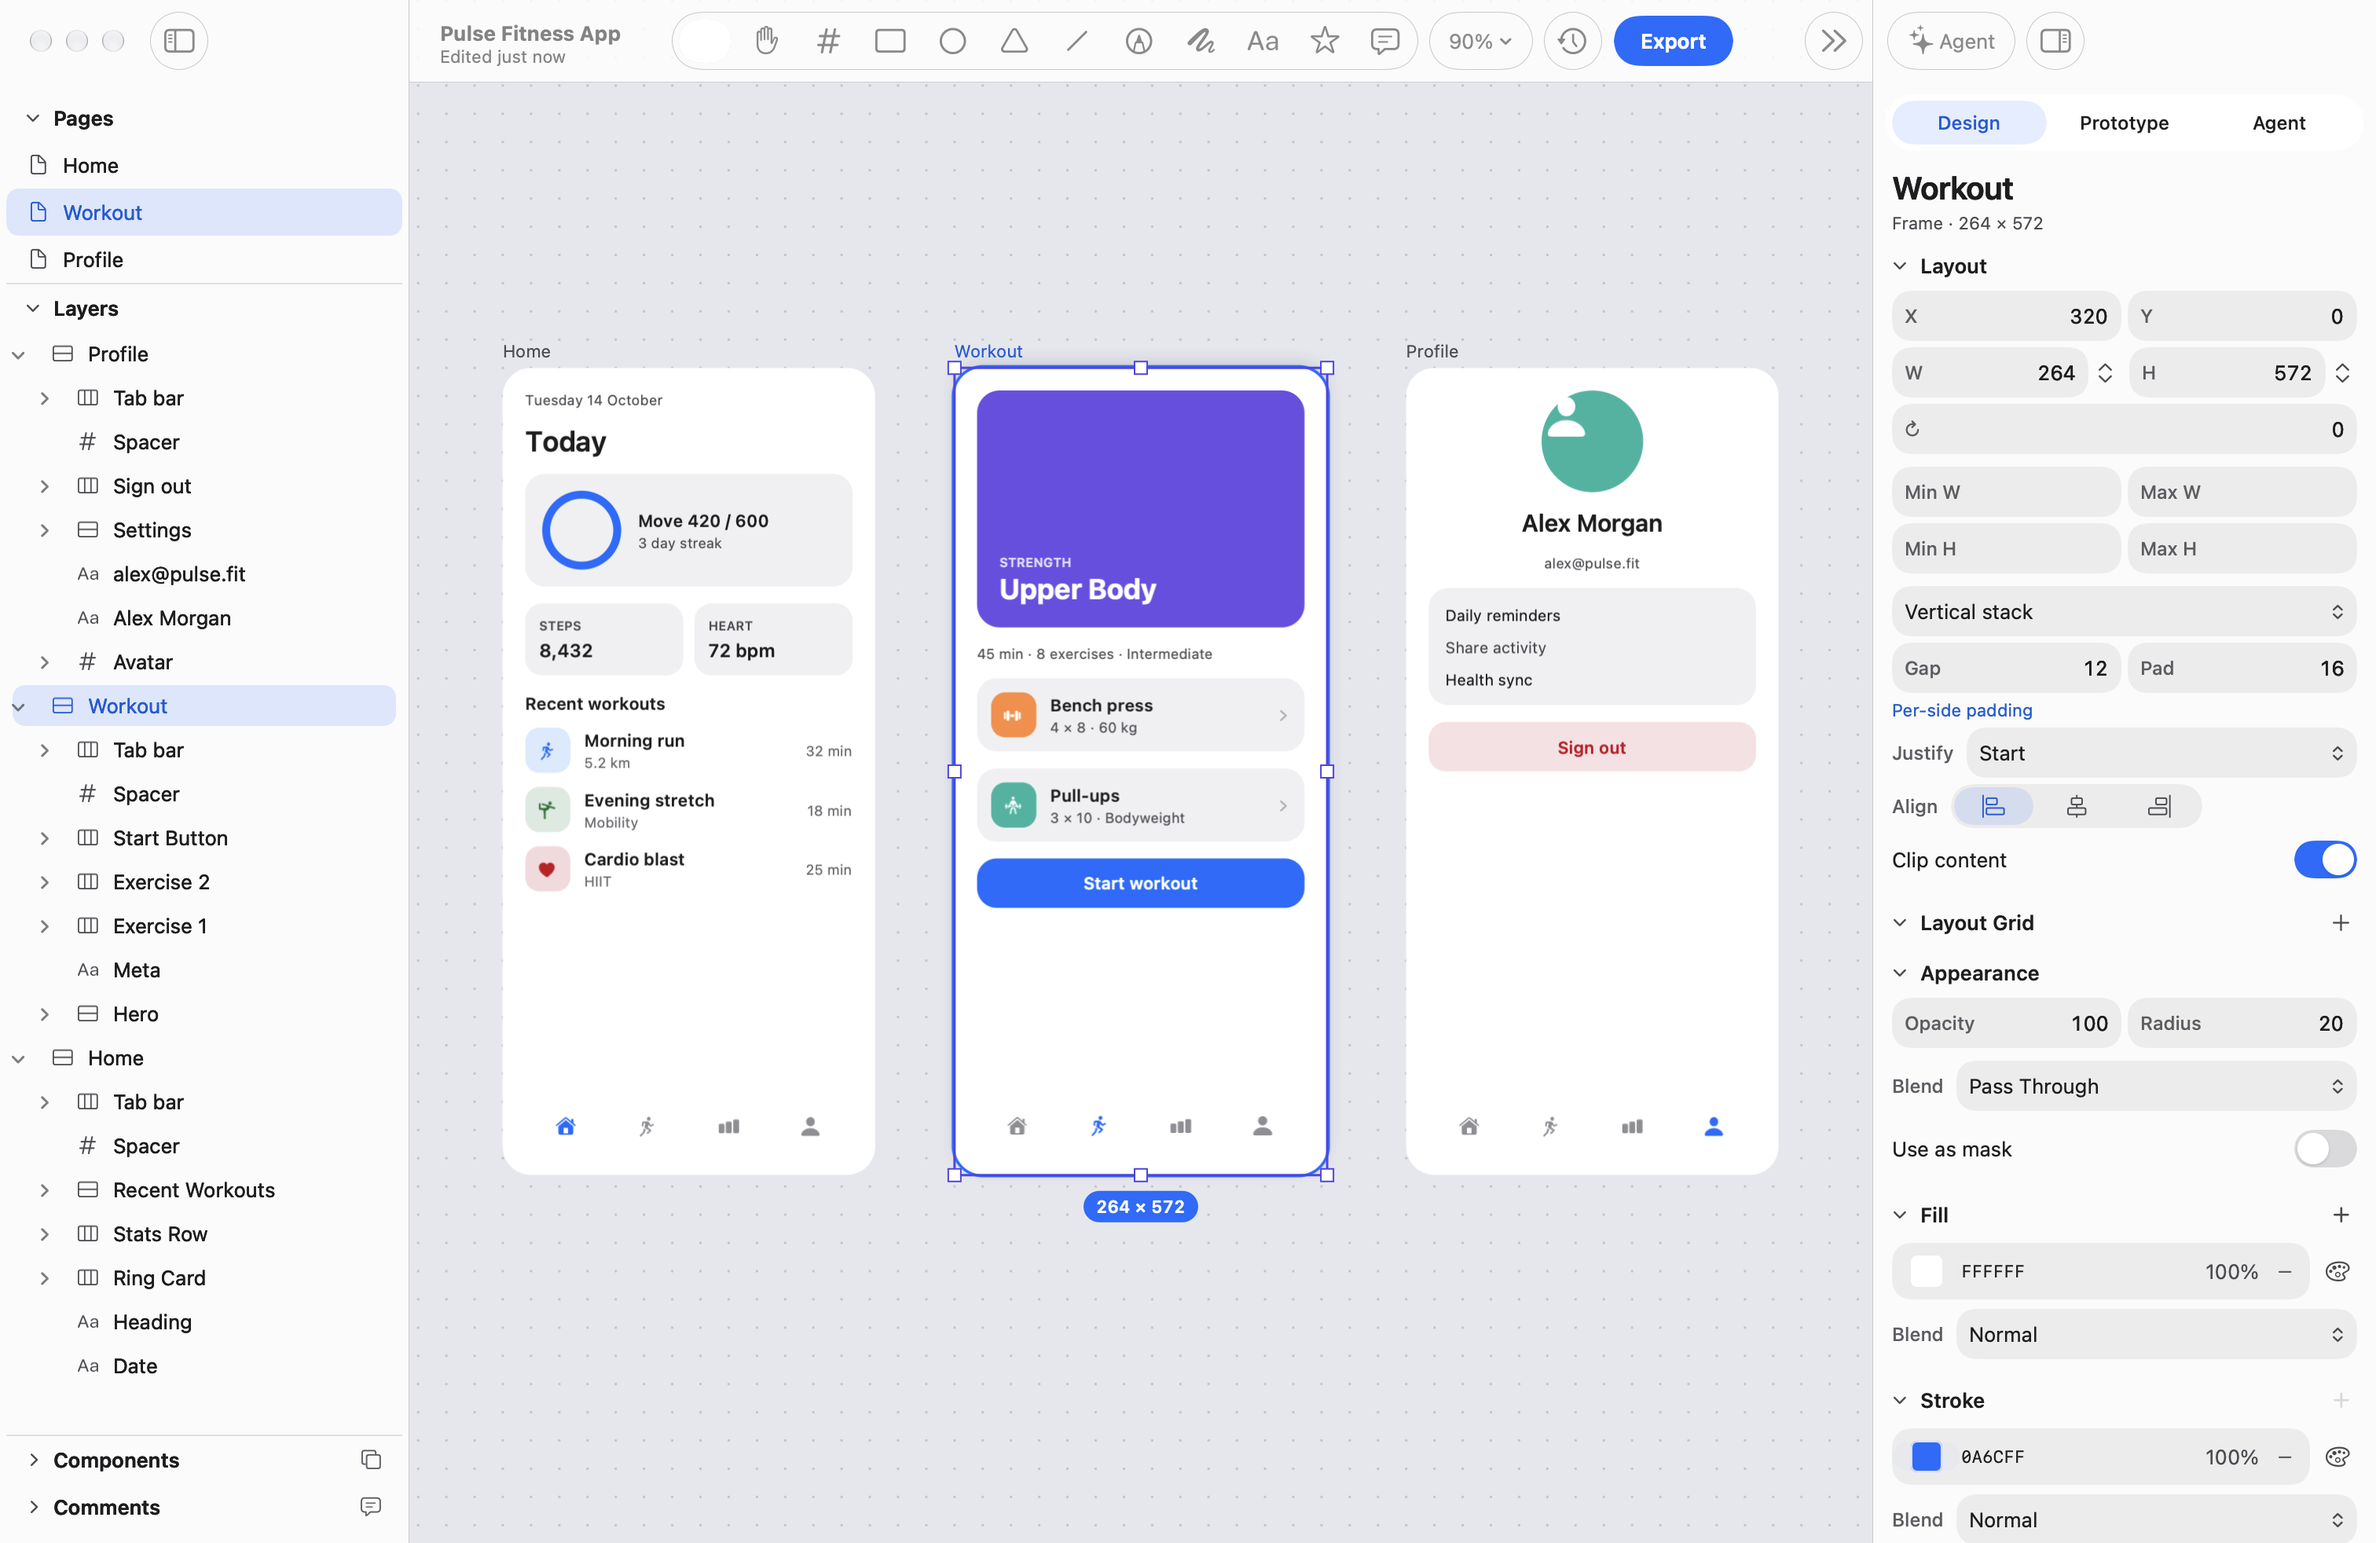
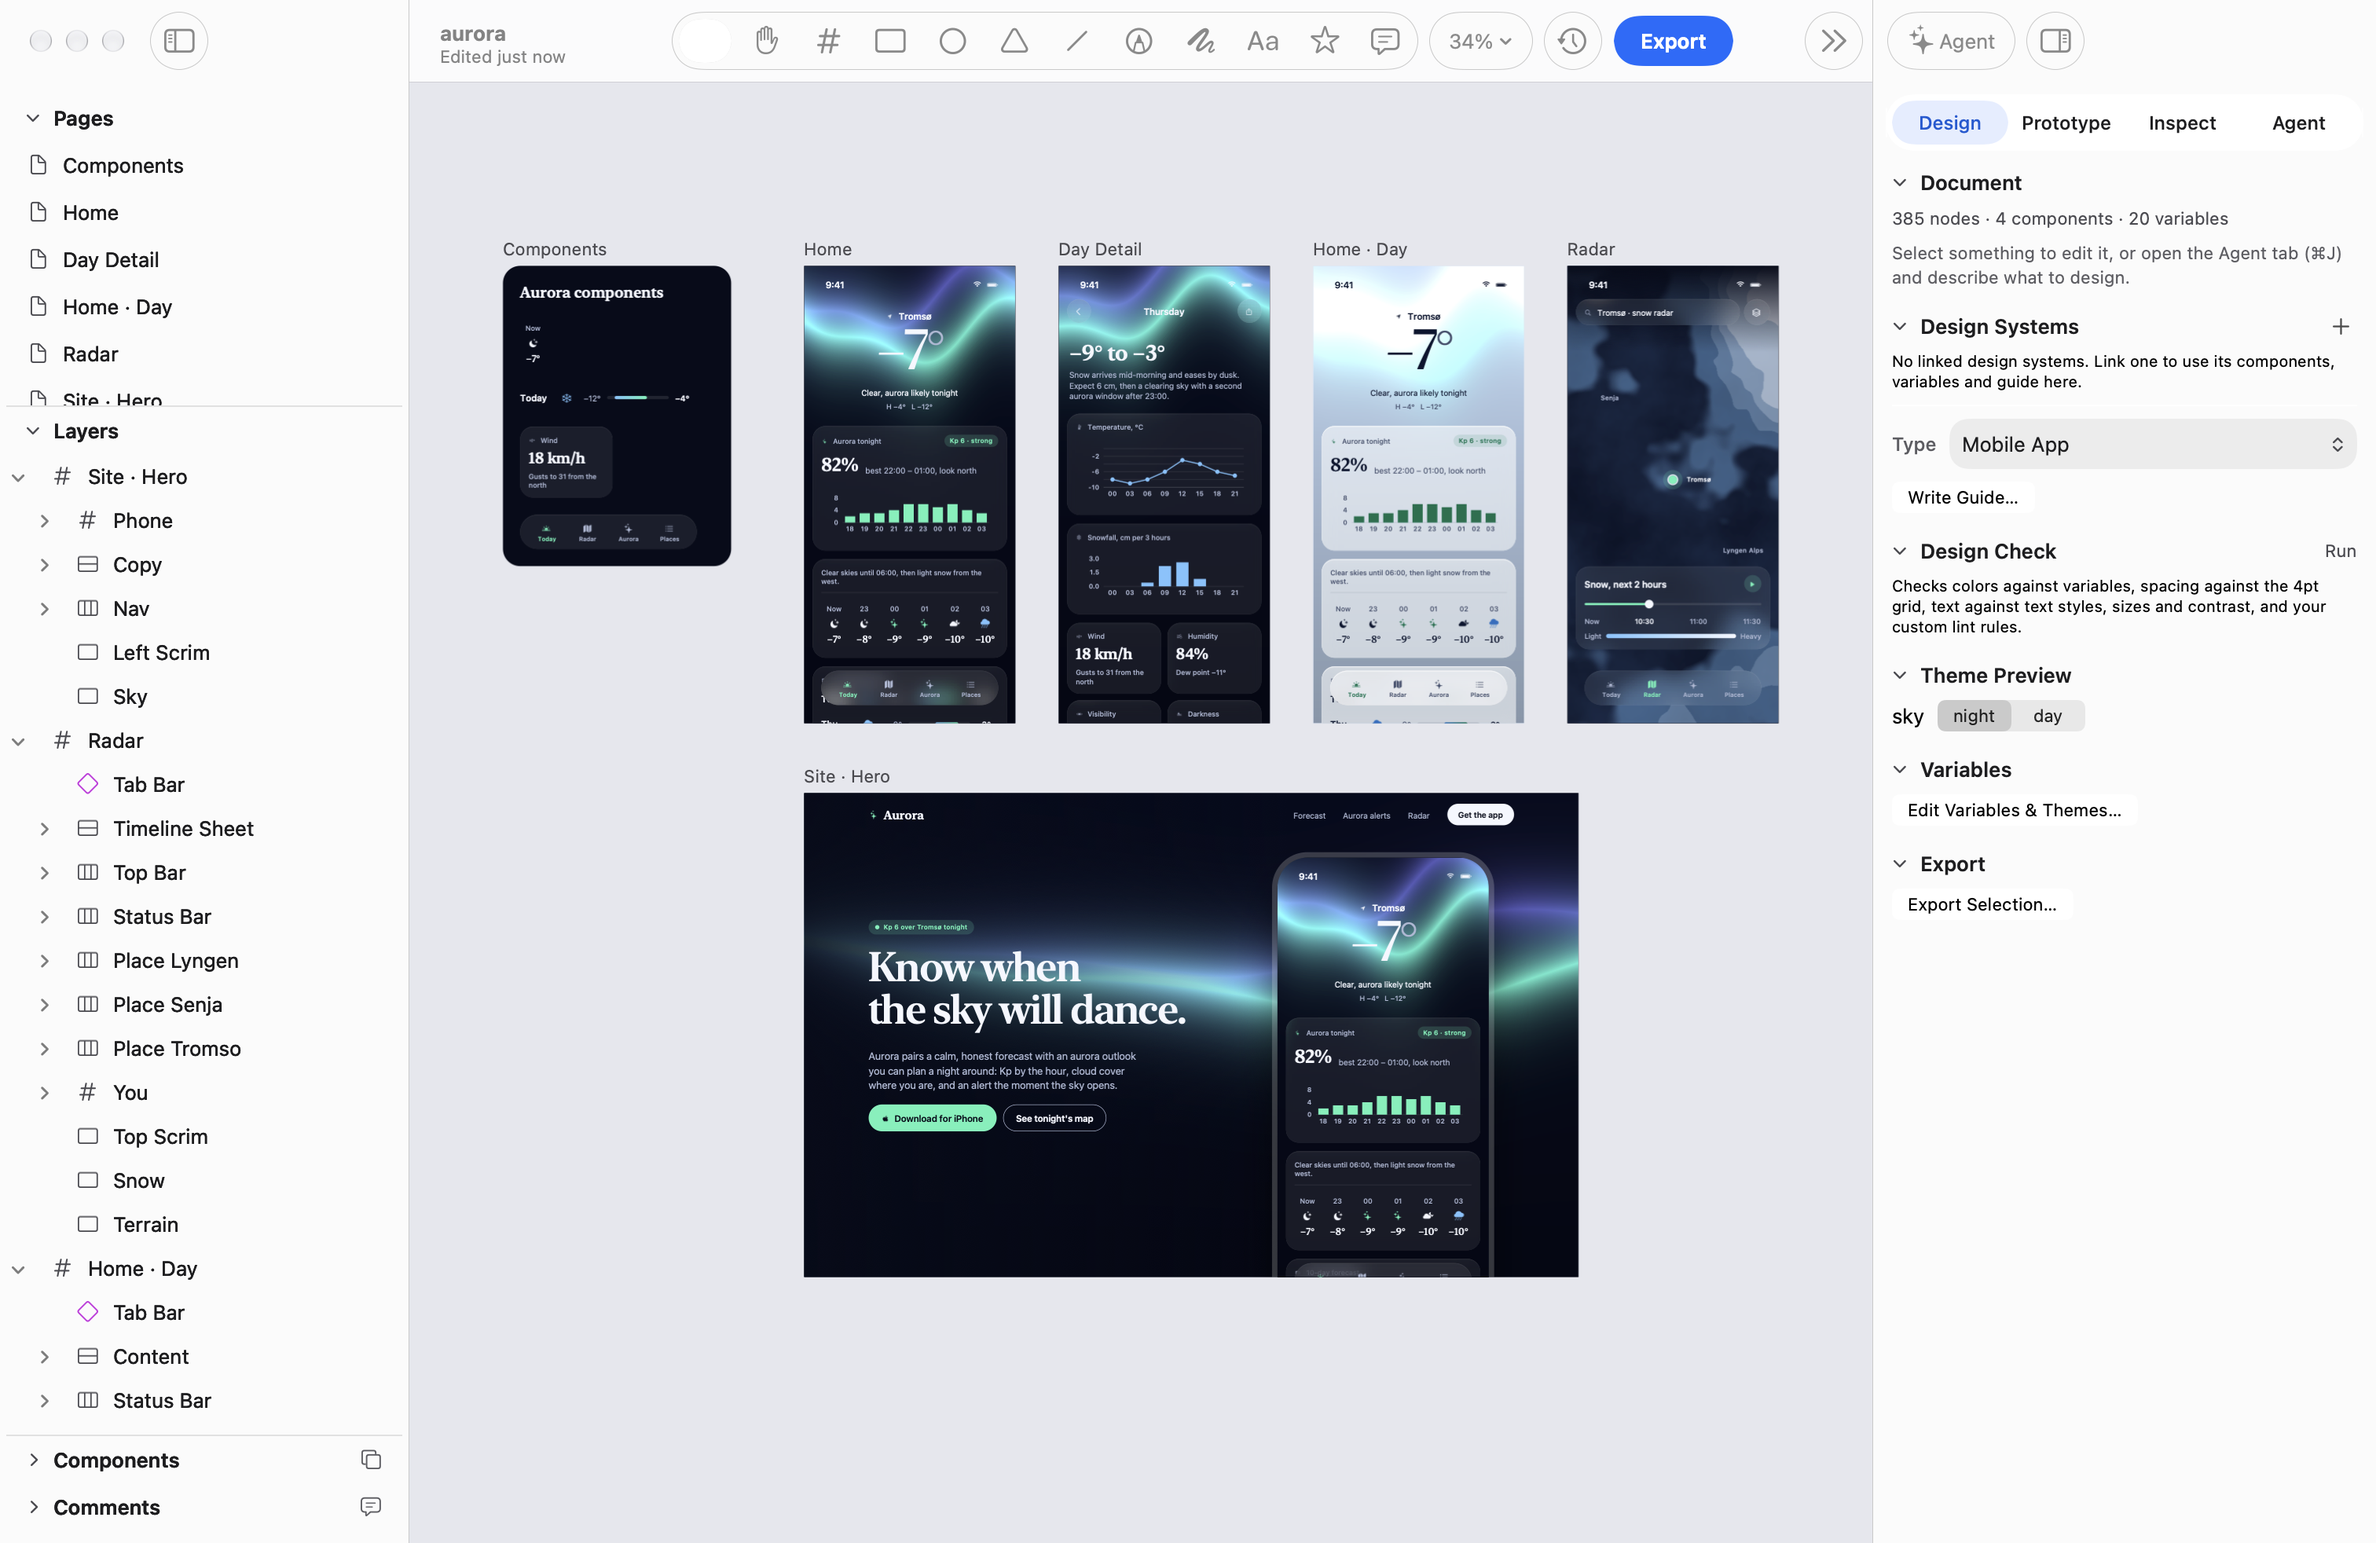
docs(site): Aurora showcase screenshots for the hero, Version History and the features page
The main window and Version History captures now show Aurora, a weather app
designed in Silverpoint, instead of the Workout sample; the features page adds
the canvas with Aurora and Aurora's shader-drawn site hero (static/assets/images).

diff --git a/content/pages/features.ja.md b/content/pages/features.ja.md
@@ -16,7 +16,23 @@ toc: true
 
 ## 本物のキャンバス
 
-オートレイアウトとグリッド（名前付きエリアも）を持つフレーム、バリアントとプロパティを持つコンポーネント、ライトとダークのテーマを持つ変数、テキストスタイル、マスク、ブレンドモード、ベクター編集。リントがコントラスト、余白、色を作業しながらチェックします。
+オートレイアウトとグリッド（名前付きエリアも）を持つフレーム、バリアントとプロパティを持つコンポーネント、ライトとダークのテーマを持つ変数、テキストスタイル、マスク、ブレンドモード、ベクター編集。リントがコントラスト、余白、色を作業しながらチェックします。キャンバスは GPU で合成されるので、大きなドキュメントでもパンやズームがなめらかです。レイヤーを選択して ⌥ を押し続ければ、Figma と同じように、ほかのレイヤーまでの距離を測れます。
+
+![メインウインドウと、Silverpoint でデザインした天気アプリ Aurora](/assets/images/aurora-canvas-light.png)
+
+Silverpoint でデザインした天気アプリ Aurora。画面、コンポーネント、ウェブサイトのヒーローがひとつのキャンバスに並びます。
+
+## シェーダーの塗りとエフェクト
+
+シェイプ、線、テキストをフラグメントシェーダーで塗ったり、レイヤー全体にシェーダーエフェクトをかけたりできます。シェーダーは GLSL のサブセット（WebGL 1 の方言）で書かれ、ドキュメントの中に保存されるので、取り消しやバージョン履歴、エージェントからもそのまま扱えます。ギャラリーにある 25 種類のプリセット（グラデーション、ノイズ、パターン、グロー、粒子感、ガラス、ゆがみなど）から始め、シェーダー自身の注釈から Silverpoint が作るスライダー、カラーウェル、スイッチで調整します。ガラスのシェーダーは、レイヤーの背後にあるものとレイヤーの輪郭を読み取ります。アニメーションするシェーダーは、選択している間のキャンバスとプロトタイププレーヤーで動き、画像の書き出しでは選んだフレームが描かれます。シェーダーのソースはエージェントが書いて直し、エラーは行と列の位置で示されます。
+
+![Aurora のウェブサイトのヒーロー。空は aurora シェーダーで描いています](/assets/images/aurora-site-hero.png)
+
+Aurora の空はひとつのシェーダーの塗りで、ウェブサイトのヒーローにもアプリのすべての画面にも使われています。
+
+## ダイアグラムとグラフ
+
+コネクタは、つないだレイヤーから離れません。ボックスをおおまかに置いて **オブジェクト ▸ ダイアグラムをレイアウト** を選べば、レイヤー型のグラフ、ツリー、グリッドに並べ替えます（1 回で取り消せます）。シーケンス図やスイムレーンもすぐに挿入できます。棒グラフ、折れ線グラフ、円グラフは、入力したデータや CSV ファイルから、ドキュメントの色で描かれます。Mermaid（フローチャート、シーケンス図、クラス図、状態図、ER 図、ガントチャート、円グラフ、XY グラフ）、Excalidraw、draw.io のファイルは編集できるフレームとして読み込め、ダイアグラムを Mermaid、Excalidraw、draw.io の形式で書き出すこともできます。
 
 ## すべてのバージョンを、見える差分で
 

diff --git a/content/pages/features.md b/content/pages/features.md
@@ -16,7 +16,23 @@ Conversation History keeps every conversation with what it cost, so you can pick
 
 ## A real canvas
 
-Frames with auto layout and grids (named areas included), components with variants and properties, variables with light and dark themes, text styles, masks, blend modes and vector editing. Lint checks contrast, spacing and colors as you go.
+Frames with auto layout and grids (named areas included), components with variants and properties, variables with light and dark themes, text styles, masks, blend modes and vector editing. Lint checks contrast, spacing and colors as you go. The canvas is composited on the GPU, so panning and zooming stay smooth in large documents, and with a layer selected you can hold ⌥ to measure the distance to any other layer, as in Figma.
+
+![The main window with Aurora, a weather app designed in Silverpoint](/assets/images/aurora-canvas-light.png)
+
+Aurora, a weather app designed in Silverpoint: its screens, components and website hero on one canvas.
+
+## Shader fills and effects
+
+Fill a shape, a stroke or text with a fragment shader, or run a shader effect over a whole layer. Shaders are written in a subset of GLSL (the WebGL 1 dialect) and live in the document, so undo, version history and the agent all see them. Start from twenty-five presets in the gallery (gradients, noise, patterns, glow, grain, glass and distortion), and tune each one with the sliders, color wells and switches Silverpoint builds from the shader's own annotations. Glass shaders read what is behind a layer and its outline. A shader that animates plays live on the canvas while it is selected and in the prototype player, and image exports draw the frame you choose. The agent writes and edits shader source for you, with errors at their line and column.
+
+![Aurora's website hero, its sky drawn with the aurora shader](/assets/images/aurora-site-hero.png)
+
+Aurora's sky is one shader fill, on the website hero and on every screen of the app.
+
+## Diagrams and charts
+
+Connectors stay attached to the layers they join. Place boxes roughly and **Object ▸ Layout Diagram** arranges them as a layered graph, a tree or a grid in one undo step, and sequence diagrams and swimlanes are one insert away. Bar, line and pie charts draw from data you type or a CSV file, in your document's colors. Mermaid (flowchart, sequence, class, state, ER, Gantt, pie and XY charts), Excalidraw and draw.io files import as editable frames, and diagrams export back to Mermaid, Excalidraw and draw.io.
 
 ## Every version, with a visual diff
 
